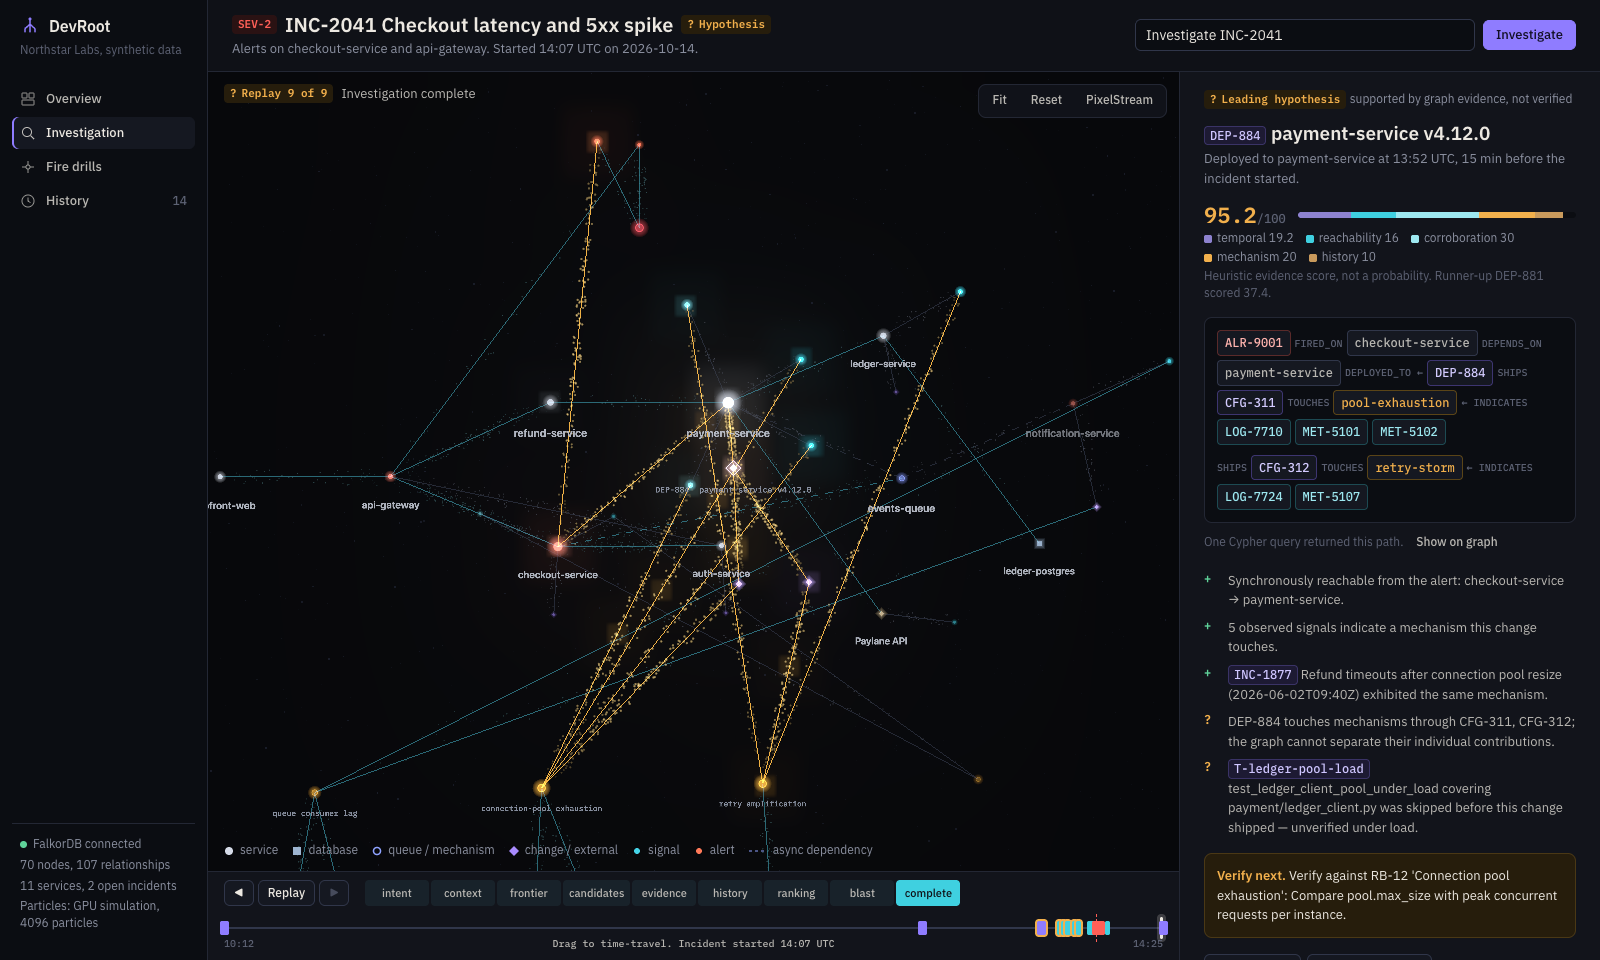
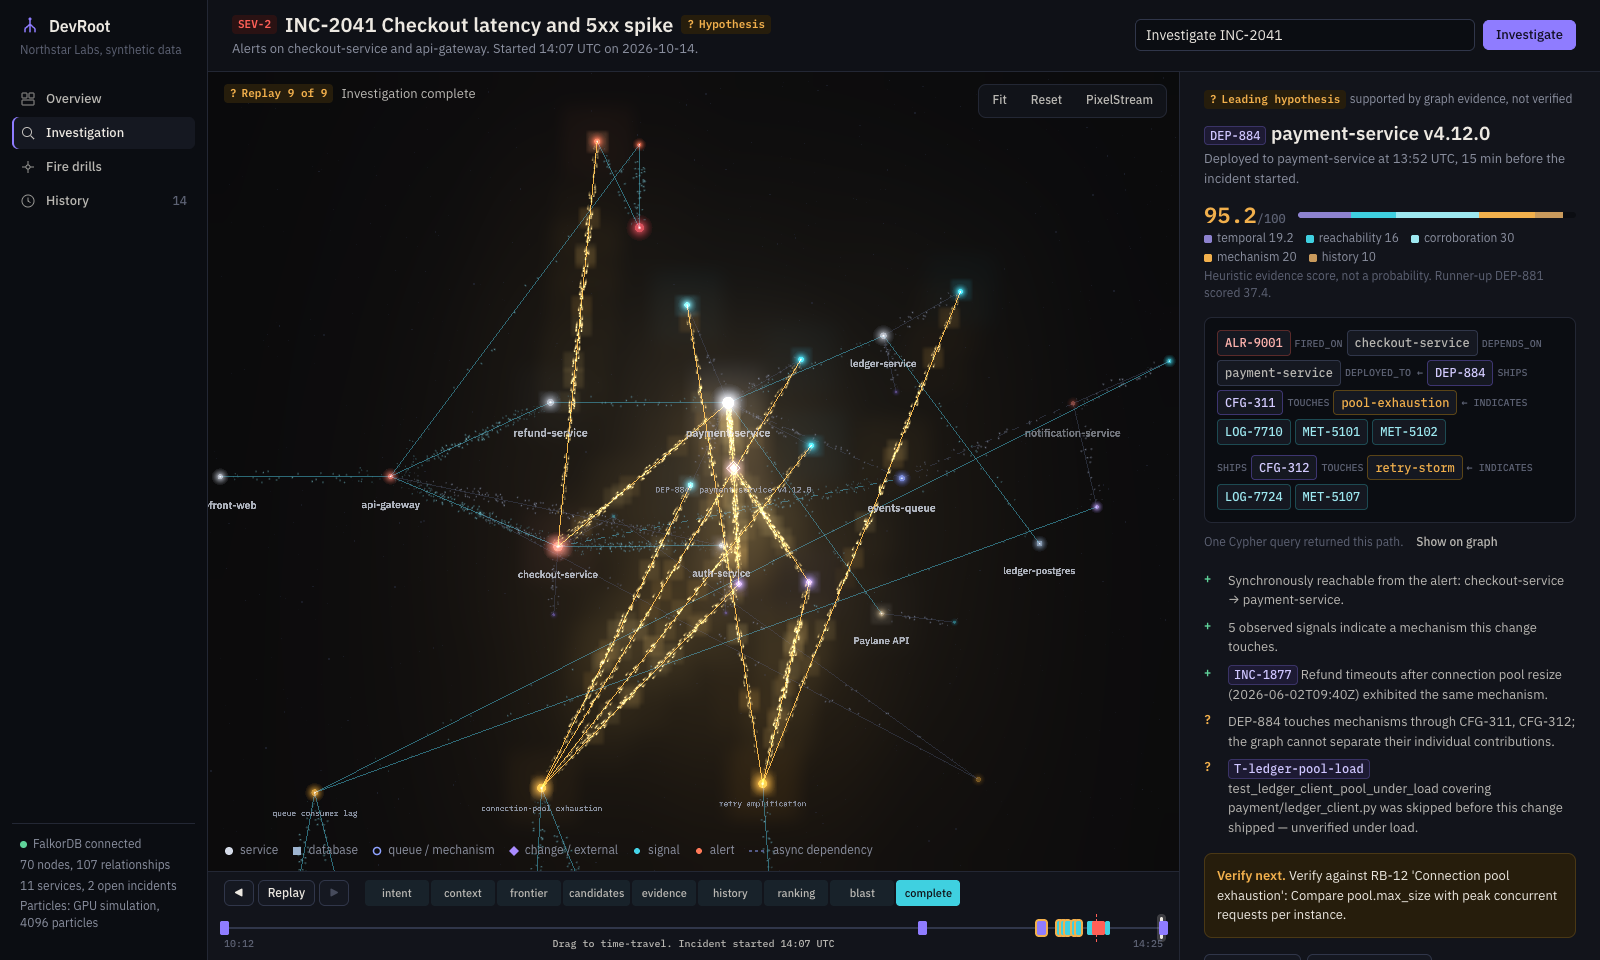
Bigger node glow, comet-streak particle streams, stronger bloom

diff --git a/frontend/src/scene.ts b/frontend/src/scene.ts
@@ -122,7 +122,7 @@ export class GraphScene {
 
     this.composer = new EffectComposer(this.renderer);
     this.composer.addPass(new RenderPass(this.scene, this.camera));
-    this.bloom = new UnrealBloomPass(new THREE.Vector2(256, 256), 0.45, 0.4, 0.72);
+    this.bloom = new UnrealBloomPass(new THREE.Vector2(256, 256), 0.62, 0.55, 0.6);
     this.composer.addPass(this.bloom);
     this.composer.addPass(new OutputPass());
 
@@ -458,7 +458,7 @@ export class GraphScene {
     this.particleMat = new THREE.ShaderMaterial({
       uniforms: {
         tPos: { value: null }, tEdges: { value: this.edgeTex }, tSeeds: { value: seeds }, uCount: { value: 0 }, uHot: { value: 0 },
-        uPR: { value: this.renderer.getPixelRatio() },
+        uPR: { value: this.renderer.getPixelRatio() }, uAspect: { value: 1 },
       },
       defines: { MAXE: MAX_EDGES.toFixed(1) },
       vertexShader: PARTICLE_VS, fragmentShader: PARTICLE_FS, transparent: true, depthWrite: false, blending: THREE.AdditiveBlending,
@@ -558,6 +558,7 @@ export class GraphScene {
     this.composer.setSize(w, h);
     this.bloom.setSize(w / 2, h / 2);
     this.camera.aspect = w / h;
+    if (this.particleMat) this.particleMat.uniforms.uAspect.value = w / h;
     this.camera.updateProjectionMatrix();
     this.layoutHud();
   }
@@ -648,7 +649,7 @@ void main() {
   vec4 mv = modelViewMatrix * vec4(position, 1.0);
   float s = size * (state < 0.5 ? 0.8 : state > 2.5 ? 1.35 : 1.0);
   if (state > 3.5 && state < 4.5) s *= 1.25 + 0.12 * sin(uTime * 3.0);
-  gl_PointSize = s * uPR * 520.0 / -mv.z;
+  gl_PointSize = s * uPR * 880.0 / -mv.z;
   gl_Position = projectionMatrix * mv;
 }`;
 const NODE_FS = /* glsl */ `
@@ -656,17 +657,19 @@ varying vec3 vColor; varying float vState; varying float vShape;
 void main() {
   vec2 p = gl_PointCoord * 2.0 - 1.0;
   float d = length(p);
+  float r = length(p);
   if (vShape > 0.5 && vShape < 1.5) d = max(abs(p.x), abs(p.y)) * 1.05;      // database: square
   if (vShape > 1.5 && vShape < 2.5) d = (abs(p.x) + abs(p.y)) * 0.85;        // external/change: diamond
-  float core = smoothstep(0.42, 0.34, d);
-  float ring = (vShape > 2.5) ? smoothstep(0.08, 0.0, abs(d - 0.38)) : 0.0;  // queue/mechanism/incident: ring
-  float halo = smoothstep(1.0, 0.2, d) * 0.35;
-  float a = (vShape > 2.5 ? ring + core * 0.35 : core) + halo;
+  float core = smoothstep(0.25, 0.2, d);
+  float hot = smoothstep(0.12, 0.0, d) * 0.6;                                   // white-hot centre
+  float ring = (vShape > 2.5) ? smoothstep(0.05, 0.0, abs(d - 0.23)) : 0.0;  // queue/mechanism/incident: ring
+  float halo = exp(-r * r * 5.5) * 0.7 + exp(-r * r * 20.0) * 0.4;           // two-layer soft glow
+  float a = (vShape > 2.5 ? ring + core * 0.35 : core) + halo * (vState < 0.5 ? 0.5 : 1.0);
   float k = vState < 0.5 ? 0.22 : vState < 1.5 ? 0.8 : vState < 2.5 ? 0.7 : 1.25;
   vec3 c = vColor * k;
-  if (vState > 3.5) { c = mix(c, vec3(1.0, 0.72, 0.27), vState > 4.5 ? 0.25 : 0.6) * 1.5; a += smoothstep(0.1, 0.0, abs(d - 0.7)) * 0.9; }
+  if (vState > 3.5) { c = mix(c, vec3(1.0, 0.72, 0.27), vState > 4.5 ? 0.25 : 0.6) * 1.5; a += smoothstep(0.05, 0.0, abs(d - 0.42)) * 0.9; }
   if (a < 0.01) discard;
-  gl_FragColor = vec4(c, a);
+  gl_FragColor = vec4(c + vec3(hot) * step(0.5, vState), min(a, 1.0));
 }`;
 const EDGE_VS = /* glsl */ `
 attribute vec4 color; attribute vec2 dash; varying vec4 vColor; varying vec2 vDash;
@@ -679,8 +682,8 @@ void main() {
 }`;
 const PICK_EDGE = /* glsl */ `
 float edgeIndex(vec4 seed, float count, float hot) {
-  // 45% of particles ride the edges emphasised by the current investigation step
-  if (hot > 0.0 && seed.z < 0.45) return floor(seed.x * hot);
+  // 60% of particles ride the edges emphasised by the current investigation step
+  if (hot > 0.0 && seed.z < 0.6) return floor(seed.x * hot);
   return floor(seed.x * max(count, 1.0));
 }`;
 const PARTICLE_SIM = /* glsl */ `
@@ -697,7 +700,7 @@ void main() {
   float t = p.w + uDt * b.w * (0.6 + seed.y * 0.8);
   bool wrapped = t >= 1.0;
   t = fract(t);
-  vec3 lane = (vec3(seed.y, seed.w, seed.z) - 0.5) * (a.w >= 0.5 ? 0.35 : 0.6);
+  vec3 lane = (vec3(seed.y, seed.w, seed.z) - 0.5) * (a.w >= 0.5 ? 0.22 : 0.5); // tight lanes read as a stream
   vec3 target = mix(a.xyz, b.xyz, t) + lane;
   vec3 pos = wrapped || length(p.xyz) < 0.0001 ? target : mix(p.xyz, target, 1.0 - exp(-uDt * 9.0));
   // alerting services disturb nearby particles (controlled jitter)
@@ -709,27 +712,43 @@ void main() {
 }`;
 const PARTICLE_VS = /* glsl */ `
 attribute vec2 ref;
-uniform sampler2D tPos; uniform sampler2D tEdges; uniform sampler2D tSeeds; uniform float uCount; uniform float uHot; uniform float uPR;
-varying vec3 vColor; varying float vAlpha;
+uniform sampler2D tPos; uniform sampler2D tEdges; uniform sampler2D tSeeds; uniform float uCount; uniform float uHot; uniform float uPR; uniform float uAspect;
+varying vec3 vColor; varying float vAlpha; varying vec2 vDir; varying float vHot;
 ${PICK_EDGE}
 void main() {
   vec4 p = texture2D(tPos, ref);
   vec4 seed = texture2D(tSeeds, ref);
   float ei = edgeIndex(seed, uCount, uHot);
-  float cls = texture2D(tEdges, vec2((ei + 0.5) / MAXE, 0.25)).w;
+  vec4 ea = texture2D(tEdges, vec2((ei + 0.5) / MAXE, 0.25));
+  vec4 eb = texture2D(tEdges, vec2((ei + 0.5) / MAXE, 0.75));
+  float cls = ea.w;
+  // direction of travel on screen, so each particle is drawn as a streak pointing along its edge
+  vec4 ca = projectionMatrix * modelViewMatrix * vec4(ea.xyz, 1.0);
+  vec4 cb = projectionMatrix * modelViewMatrix * vec4(eb.xyz, 1.0);
+  vec2 dv = (cb.xy / cb.w - ca.xy / ca.w) * vec2(uAspect, 1.0);
+  vDir = length(dv) > 1e-5 ? normalize(dv) : vec2(1.0, 0.0);
   vColor = cls >= 0.95 ? vec3(1.0, 0.55, 0.36) : cls >= 0.7 ? vec3(1.0, 0.72, 0.27) : cls >= 0.5 ? vec3(0.27, 0.83, 0.91)
          : cls >= 0.4 ? vec3(0.23, 0.56, 0.63) : vec3(0.36, 0.40, 0.52);
   float hotEdge = step(0.5, cls);
-  vAlpha = sin(p.w * 3.14159) * mix(uHot > 0.0 ? 0.12 : 0.3, 0.42, hotEdge) * step(ei, uCount - 1.0);
+  vHot = hotEdge;
+  vAlpha = sin(p.w * 3.14159) * mix(uHot > 0.0 ? 0.14 : 0.32, 0.8, hotEdge) * step(ei, uCount - 1.0);
   vec4 mv = modelViewMatrix * vec4(p.xyz, 1.0);
-  gl_PointSize = mix(1.3, 2.0, hotEdge) * uPR * 60.0 / -mv.z;
+  gl_PointSize = mix(2.4, 5.5, hotEdge) * uPR * 80.0 / -mv.z;
   gl_Position = projectionMatrix * mv;
 }`;
 const PARTICLE_FS = /* glsl */ `
-varying vec3 vColor; varying float vAlpha;
+varying vec3 vColor; varying float vAlpha; varying vec2 vDir; varying float vHot;
 void main() {
-  float d = length(gl_PointCoord * 2.0 - 1.0);
-  float a = smoothstep(1.0, 0.0, d) * vAlpha;
+  vec2 p = gl_PointCoord * 2.0 - 1.0;
+  p.y = -p.y;
+  float u = dot(p, vDir), v = dot(p, vec2(-vDir.y, vDir.x));
+  // comet: compact bright head, long fading tail behind it (stream particles only; idle flow stays round)
+  float stretch = mix(1.0, 3.2, vHot);
+  float along = u > 0.0 ? u * stretch * 1.6 : u * 1.0;
+  float d = length(vec2(along, v * stretch));
+  float body = exp(-d * d * 5.0);
+  float head = exp(-d * d * 28.0) * 0.9;
+  float a = (body * 0.7 + head) * vAlpha;
   if (a < 0.01) discard;
-  gl_FragColor = vec4(vColor, a);
+  gl_FragColor = vec4(vColor * (1.0 + head * 0.8), a);
 }`;
